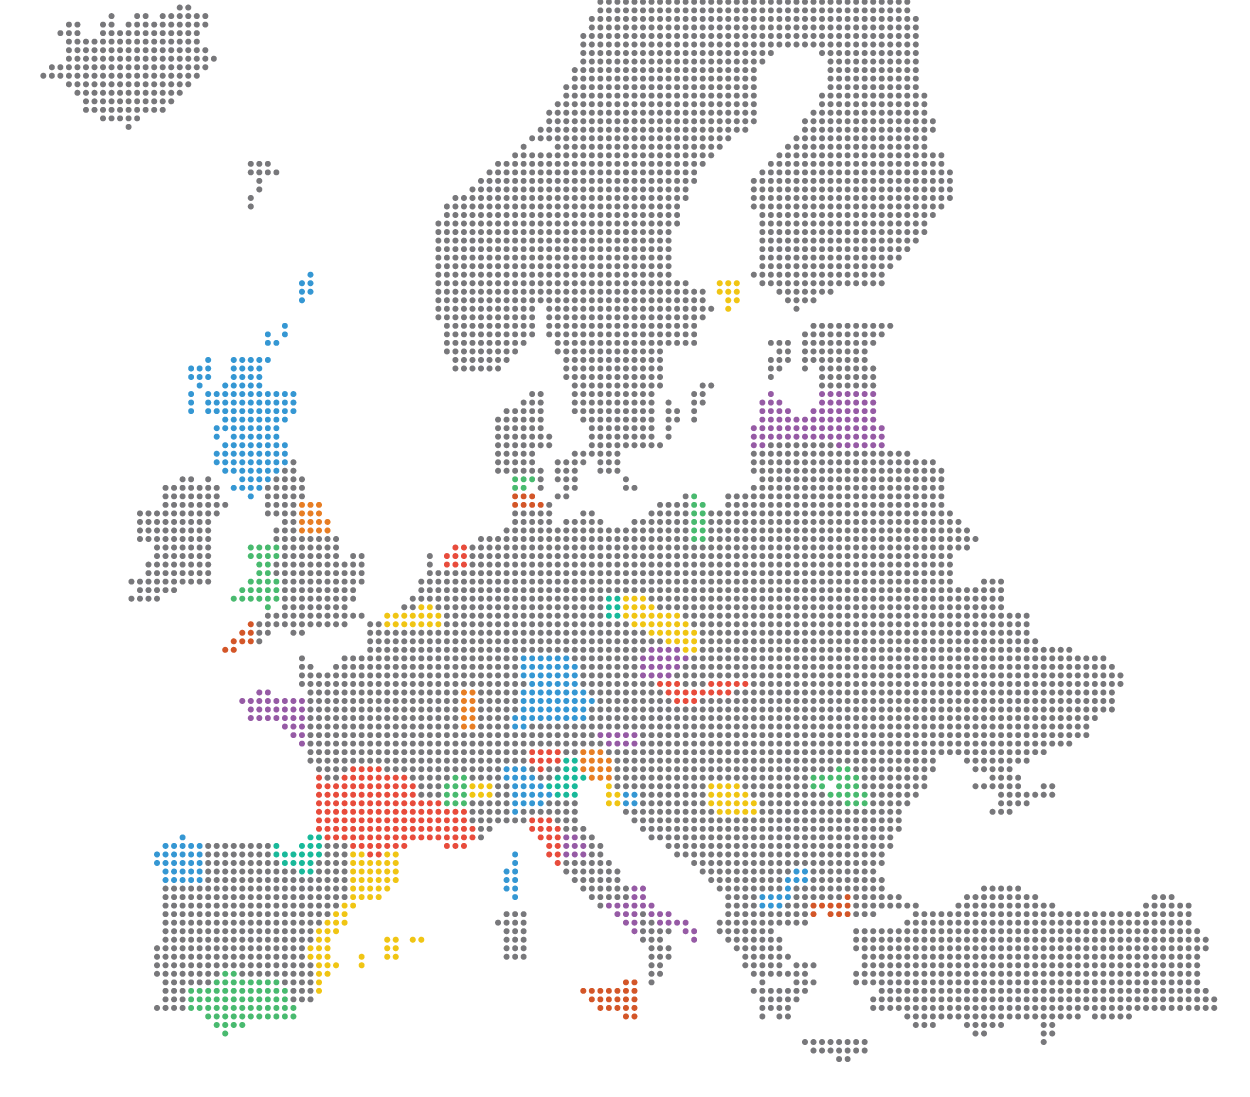
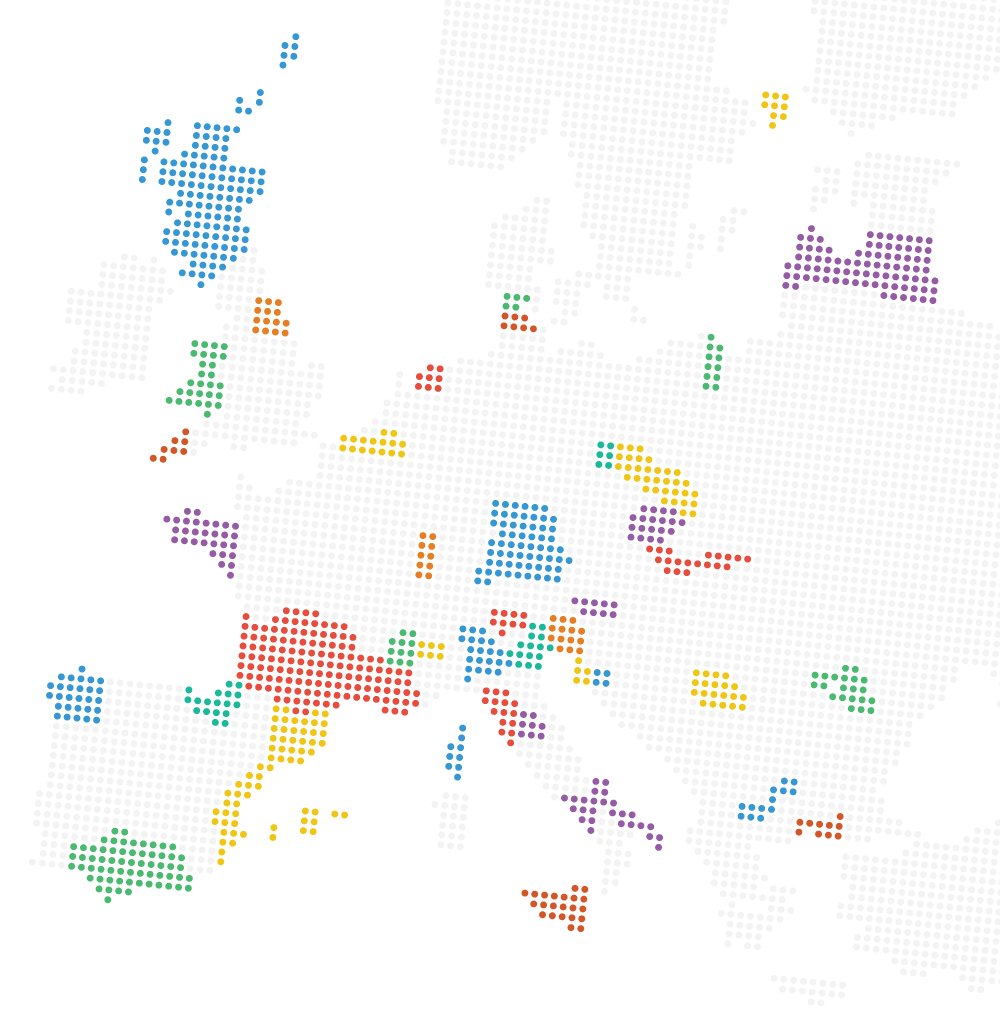
update hero map

diff --git a/components/section/Hero.vue b/components/section/Hero.vue
@@ -1,8 +1,8 @@
 <template>
   <header class="relative flex min-h-screen bg-purple text-white items-center">
     <UiContainer class="relative z-20 py-nav">
-      <h1 id="HeroTitle" class="opacity-0 translate-y-[20px] text-title font-semibold leading-none">
-        {{ $t('hero.title[0]') }}<br>
+      <h1 id="HeroTitle" class="opacity-0 translate-y-[20px] text-7xl xl:text-8xl font-semibold leading-none">
+        {{ $t('hero.title[0]') }}<br class="hidden md:inline">
         {{ $t('hero.title[1]') }}
       </h1>
       <p id="HeroSubtitle" class="opacity-0 translate-y-[20px] mt-4 mb-8 text-2xl md:text-3xl leading-tight">
@@ -22,8 +22,8 @@
         </i18n>
       </div>
     </UiContainer>
-    <div class="absolute flex inset-0 z-10 overflow-hidden pointer-events-none">
-      <img src="~assets/images/map-2.png" class="h-full w-full grayscale mix-blend-multiply object-contain object-right-top opacity-25 max-w-none" alt="" />
+    <div class="background absolute flex inset-0 z-10 overflow-hidden pointer-events-none bg-purple">
+      <img src="~assets/images/map-grayscale.png" class="h-full w-full object-contain object-right-top max-w-none pointer-events-none mix-blend-screen opacity-25" alt="" />
     </div>
   </header>
 </template>
@@ -52,8 +52,8 @@
             y: 0,
             duration: .75
           }, '-=0.5')
-          .to('#Nav', {
-            opacity: 1,
+          .from('#Nav', {
+            opacity: 0,
             duration: .75
           }, '-=0.75')
       }

diff --git a/components/ui/Nav.vue b/components/ui/Nav.vue
@@ -2,7 +2,7 @@
   <nav
     id="Nav"
     :class="[
-      'opacity-0 fixed w-full left-0 right-0 top-0',
+      'fixed w-full left-0 right-0 top-0',
       'text-white py-3 transition z-50',
       {
         'bg-purple/75 backdrop-blur-lg': scrolled
@@ -15,11 +15,11 @@
           'block mr-2 overflow-hidden transition-all shrink-0',
           'focus:ring focus:outline-none ring-orange/50 ring-offset-2 ring-offset-purple',
           {
-            'w-logo-mini md:w-logo-mini-lg': scrolledPastFold,
-            'w-logo-full md:w-logo-full-lg': !scrolledPastFold
+            'w-[3rem] md:w-[4.25rem]': scrolledPastFold,
+            'w-[6rem] md:w-[8.25rem]': !scrolledPastFold
           }
         ]">
-        <img src="~assets/logos/logo-en.svg" :alt="$t('global.EFA')" class="w-logo-full md:w-logo-full-lg max-w-none" />
+        <img src="~assets/logos/logo-en.svg" :alt="$t('global.EFA')" class="w-[6rem] md:w-[8.25rem] max-w-none" />
       </nuxt-link>
 
       <nuxt-link

diff --git a/tailwind.config.js b/tailwind.config.js
@@ -17,17 +17,10 @@ module.exports = {
     },
     extend: {
       fontSize: {
-        title: 'calc(2.5rem + 2.5vw)',
         number: '15rem'
       },
       padding: {
-        nav: '5rem'
-      },
-      width: {
-        'logo-full': '6rem',
-        'logo-mini': '3rem',
-        'logo-full-lg': '8.25rem',
-        'logo-mini-lg': '4.25rem'
+        nav: '6rem'
       },
       maxWidth: {
         card: '30rem'

diff --git a/components/section/Proposal.vue b/components/section/Proposal.vue
@@ -152,7 +152,6 @@
           scale: 1,
           duration: 0.5,
           ease: 'Back.easeOut',
-          delay: .5,
           scrollTrigger: {
             trigger: `#share${this.proposal.number}`,
             start: 'top bottom'
